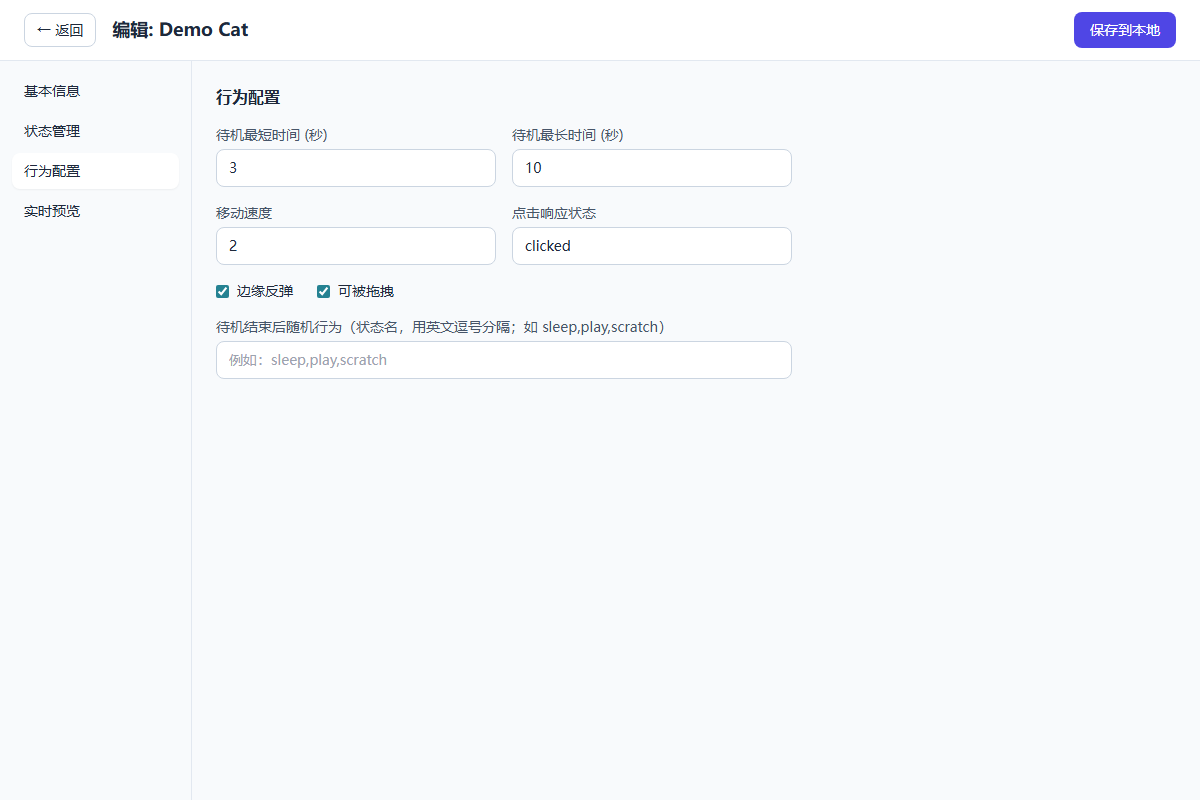
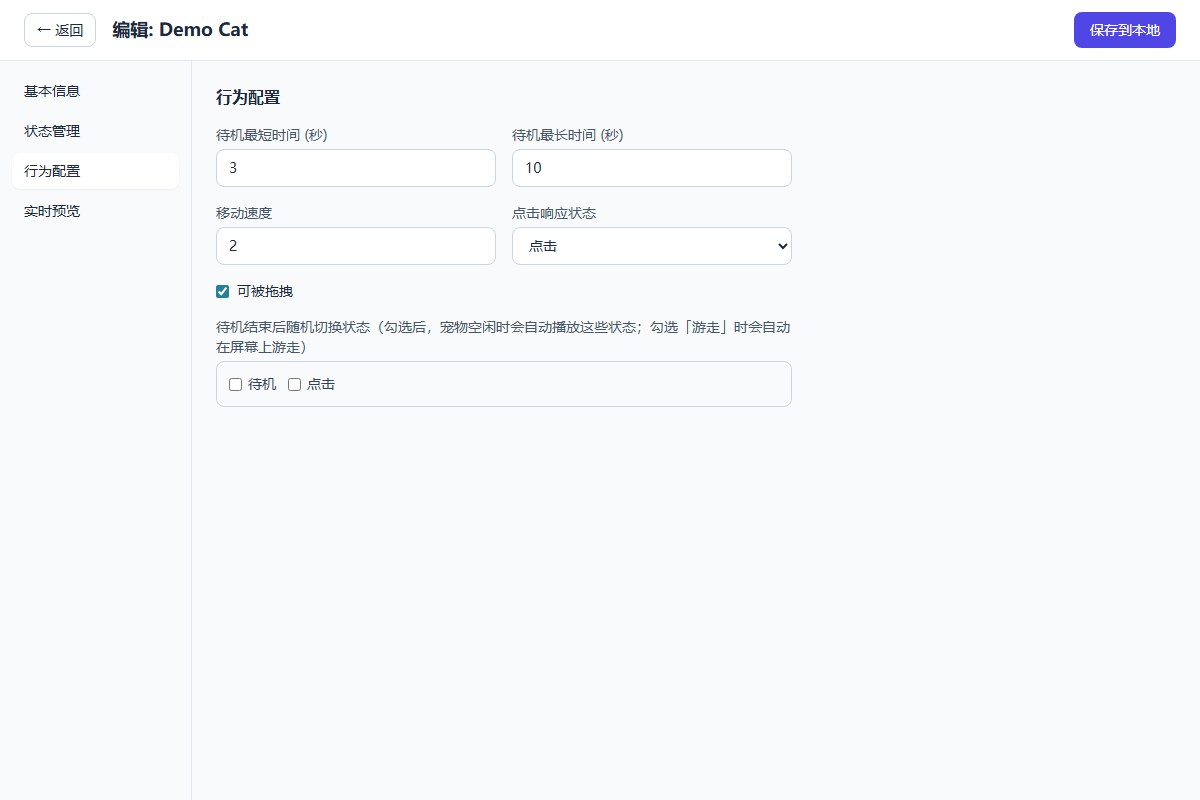
同步在线文档

Changed region(s): [[0.185, 0.3438, 0.6475, 0.5], [0.4317, 0.2812, 0.4625, 0.3125]]

diff --git a/src/components/Editor.tsx b/src/components/Editor.tsx
@@ -1,4 +1,4 @@
-import { useState, useCallback, useEffect, useRef } from 'react'
+import { useState, useCallback, useEffect, useRef, useMemo } from 'react'
 import { readFile, writeFile, mkdir } from '@tauri-apps/plugin-fs'
 import type { EditorData, EditorStateData, FrameFile, Manifest } from '../types'
 import { loadPet, savePetManifest, getBaseDataDir } from '../stores/petStore'
@@ -163,6 +163,8 @@ export default function Editor({ petName, onBack, onSaved }: EditorProps) {
   const [activeTab, setActiveTab] = useState<'basic' | 'states' | 'behavior' | 'preview'>('basic')
   const [previewState, setPreviewState] = useState('idle')
   const [previewFrame, setPreviewFrame] = useState(0)
+  const previewFrameRef = useRef(0)
+  const previewStateRef = useRef(previewState)
   const [autoRemoveBg, setAutoRemoveBg] = useState(true)
   const [showPrompts, setShowPrompts] = useState(false)
   const [copiedKey, setCopiedKey] = useState('')
@@ -301,20 +303,32 @@ export default function Editor({ petName, onBack, onSaved }: EditorProps) {
   }, [data.states])
 
   useEffect(() => {
+    previewStateRef.current = previewState
+  }, [previewState])
+
+  const previewFrameIds = useMemo(
+    () => data.states[previewState]?.frames.map((f) => f.id).join(',') ?? '',
+    [data.states, previewState]
+  )
+
+  useEffect(() => {
     const state = data.states[previewState]
     if (!state || state.frames.length === 0) return
-    let frame = 0
     let dir = 1
+    previewFrameRef.current = 0
     setPreviewFrame(0)
     let lastTime = performance.now()
-    const interval = 1000 / state.fps
     let rafId = 0
 
     function loop(now: number) {
+      const state = data.states[previewStateRef.current]
+      if (!state || state.frames.length === 0) return
+      const interval = 1000 / state.fps
       const elapsed = now - lastTime
       if (elapsed >= interval) {
         const steps = Math.floor(elapsed / interval)
         lastTime += steps * interval
+        let frame = previewFrameRef.current
         for (let s = 0; s < steps; s++) {
           if (state.loop && state.pingpong && state.frames.length > 1) {
             frame += dir
@@ -328,11 +342,14 @@ export default function Editor({ petName, onBack, onSaved }: EditorProps) {
           } else {
             frame = (frame + 1) % (state.loop ? state.frames.length : Math.max(1, state.frames.length))
             if (!state.loop && frame === state.frames.length - 1) {
+              previewFrameRef.current = frame
               setPreviewFrame(frame)
+              cancelAnimationFrame(rafId)
               return
             }
           }
         }
+        previewFrameRef.current = frame
         setPreviewFrame(frame)
       }
       rafId = requestAnimationFrame(loop)
@@ -340,7 +357,7 @@ export default function Editor({ petName, onBack, onSaved }: EditorProps) {
 
     rafId = requestAnimationFrame(loop)
     return () => cancelAnimationFrame(rafId)
-  }, [previewState, data.states])
+  }, [previewState, previewFrameIds])
 
   const updateState = useCallback((key: string, patch: Partial<EditorStateData>) => {
     setData((d) => ({

diff --git a/scripts/capture-screenshots.py b/scripts/capture-screenshots.py
@@ -92,7 +92,7 @@ def build_mock():
 
 
 def capture():
-    out_dir = ROOT / "docs" / "public" / "images" / "screenshots"
+    out_dir = ROOT / "docs" / "public" / "images"
     out_dir.mkdir(parents=True, exist_ok=True)
     base_url = "http://127.0.0.1:5173/index.html"
     mock = build_mock()
@@ -162,7 +162,8 @@ def capture():
         page.locator("button:has-text('+ 添加状态')").click()
         page.wait_for_timeout(300)
         page.screenshot(path=str(out_dir / "editor-add-state.png"))
-        page.keyboard.press("Escape")
+        # Close dialog by clicking the cancel button
+        page.locator("button:has-text('取消')").click()
         page.wait_for_timeout(300)
 
         # Behavior tab

diff --git a/docs/guide/create-pet.md b/docs/guide/create-pet.md
@@ -73,21 +73,25 @@
 
 ## 第四步：添加更多状态
 
-常见状态名：
+常见状态：
 
-| 状态名 | 作用 |
-|---|---|
-| `idle` | 待机，默认状态（必须有） |
-| `walk` | 走路或移动 |
-| `clicked` | 被点击时的反馈 |
-| `sleep` | 睡觉 |
-| `typing` | 敲击键盘时触发（按键监听） |
+| 界面显示 | 内部标识 | 作用 |
+|---|---|---|
+| 待机 | `idle` | 默认状态，必须有 |
+| 点击 | `clicked` | 被点击时的反馈 |
+| 游走 | `walk` | 走路或移动 |
+| 睡觉 | `sleep` | 睡觉 |
+| 打字 | `typing` | 敲击键盘时触发（按键监听） |
+| 玩耍 | `play` | 玩耍动作 |
+| 进食 | `eat` | 进食动作 |
+| 喝水 | `drink` | 喝水动作 |
+| 开心 | `happy` | 开心表情/动作 |
 
-点击 **+ 添加状态**，从预设下拉框选择常用状态（如 `walk`、`typing`、`sleep`），或在输入框中填写自定义名称，即可创建新状态。
+点击 **+ 添加状态**，在弹出的对话框中从下拉框选择预设状态（如「游走」「打字」「睡觉」），点击 **添加** 即可创建。所有状态在界面上显示中文，内部仍使用英文标识，方便分享和识别。
 
 ![添加状态](/images/editor-add-state.png)
 
-> `idle` 状态是必需的，不能删除。
+> `idle`（待机）状态是必需的，不能删除。状态名称只能从预设下拉框中选择，不支持自定义名称。
 
 ## 第五步：配置行为
 
@@ -97,12 +101,14 @@
 |---|---|
 | **待机最短时间 / 最长时间** | 两次随机行为之间的间隔秒数范围 |
 | **移动速度** | 随机游走时的像素速度 |
-| **点击响应状态** | 点击宠物时切换到哪个状态，默认 `clicked`，从已有状态下拉选择 |
+| **点击响应状态** | 点击宠物时切换到哪个状态，默认「点击」，从已有状态下拉选择（界面显示中文） |
 | **可被拖拽** | 是否允许用鼠标拖动宠物位置 |
-| **待机结束后随机切换状态** | 勾选想要的状态，待机结束后会随机从中挑选一个播放。勾选 `walk` 时宠物会播放 walk 动画；再选择「全屏走动」时窗口会真的移动，选择「原地走动」时只播放动画不移动位置 |
-| **游走范围** | 当上方勾选了 `walk` 时出现，选择 `全屏走动`（窗口在屏幕上移动）或 `原地走动`（只播放 walk 动画，位置不变） |
+| **待机结束后随机切换状态** | 勾选想要的状态，待机结束后会随机从中挑选一个播放。状态名称显示中文；勾选「游走」时，会额外出现「游走范围」选项 |
+| **游走范围** | 仅勾选「游走」时出现。选择「全屏走动」会真实移动宠物窗口；选择「原地走动」只播放游走动动画，窗口位置保持不变 |
 
 ![行为配置](/images/editor-behavior-config.png)
+
+> **注意**：修改行为配置后，需要返回管理器点击 **停止** 再重新 **运行** 宠物才会生效，当前运行的宠物不会实时更新。
 
 ## 第六步：实时预览
 

diff --git a/docs/guide/manage-pets.md b/docs/guide/manage-pets.md
@@ -16,11 +16,12 @@
 
 1. 在管理器右上角点击 **导入 .pet**。
 2. 在文件选择对话框中选择 `.pet` 文件。
-3. 导入成功后，宠物会出现在列表中。
+3. 如果列表中已有同名宠物，软件会弹出重命名对话框，让你为导入的宠物指定一个新名称。
+4. 导入成功后，宠物会出现在列表中。
 
 ![导入 .pet](/images/import-pet.svg)
 
-> 导入会自动解压到本地数据目录，不会覆盖已有同名宠物（如需更新，请先删除旧宠物）。
+> 导入不会覆盖已有同名宠物，遇到同名时需要先填入新名称再继续。
 
 ## 导出 .pet 文件
 
@@ -80,7 +81,7 @@ DeskPet/
 
 ![更改数据目录](/images/change-data-dir.svg)
 
-> 建议定期备份数据目录，尤其是自己做的宠物。升级软件前也建议先导出 `.pet` 或备份整个数据目录，避免更新安装覆盖旧数据。
+> **重要**：每次升级软件前，请先在管理器中选择宠物点击 **导出**，把 `.pet` 文件备份到安全位置；或手动备份整个数据目录。升级安装可能会覆盖旧数据，导出 `.pet` 是最稳妥的备份方式。
 
 ## 下一步
 

diff --git a/docs/guide/file-format.md b/docs/guide/file-format.md
@@ -98,10 +98,10 @@
 |---|---|---|
 | `idle_time` | number[] | 待机状态持续的最短、最长时间（秒） |
 | `walk_speed` | number | 随机游走速度 |
-| `edge_bounce` | boolean | 是否开启待机结束后随机游走（撞到屏幕边缘会掉头） |
+| `edge_bounce` | boolean | **已废弃，仅保留兼容**。旧版用此字段控制待机结束后随机游走；新版请通过 `random_states` 和 `walk_area` 控制 |
 | `drag_physics` | boolean | 是否允许鼠标拖拽 |
-| `random_states` | string[] | 待机结束后可能随机进入并播放的状态列表 |
-| `walk_area` | string | 随机游走范围：`screen`（全屏移动）或 `spot`（原地播放 walk 动画，不移动窗口） |
+| `random_states` | string[] | 待机结束后可能随机进入并播放的状态列表。包含 `walk` 时，宠物会播放 walk 动画 |
+| `walk_area` | string | 随机游走范围：`screen`（宠物窗口在屏幕上全屏移动）或 `spot`（只原地播放 walk 动画，不移动窗口） |
 
 ### interactions
 

diff --git a/docs/guide/run-pet.md b/docs/guide/run-pet.md
@@ -17,10 +17,12 @@
 
 | 操作 | 效果 |
 |---|---|
-| 左键点击 | 触发配置的「点击响应状态」（默认 `clicked`，可在编辑器行为配置中选择） |
+| 左键点击 | 触发配置的「点击响应状态」（默认「点击」/ `clicked`，可在编辑器行为配置中选择） |
 | 按住拖拽 | 移动宠物位置 |
 | 右键点击 | 打开宠物菜单：水平翻转、恢复自动朝向、关闭宠物 |
-| 按键（Windows） | 空格/回车/方向键/WASD/数字键 1-5 会触发 `typing` 状态或点击反馈 |
+| 按键（Windows） | 空格/回车/方向键/WASD/数字键 1-5 会触发「打字」/ `typing` 状态或点击反馈 |
+
+> **配置生效时机**：在编辑器中修改宠物配置后，需要返回管理器点击 **停止** 再重新 **运行**，当前运行的宠物不会实时更新。
 
 ![宠物右键菜单](/images/viewer-context-menu.svg)
 

diff --git a/docs/guide/faq.md b/docs/guide/faq.md
@@ -46,16 +46,17 @@ chmod +x "DeskPet Engine_0.1.0_amd64.AppImage"
 
 请检查：
 
-1. 是否给 `clicked` 状态上传了帧图。
-2. 行为配置中的 **点击响应状态** 是否选择正确（默认 `clicked`）。
+1. 是否给「点击」/ `clicked` 状态上传了帧图。
+2. 行为配置中的 **点击响应状态** 是否选择正确（默认「点击」/ `clicked`，界面显示中文）。
 3. 设置中是否开启了 **鼠标穿透**（开启后无法点击）。
+4. 修改配置后是否重新 **停止** 再 **运行** 了宠物（运行中的宠物不会实时更新配置）。
 
 ### Q: 按键不会触发动画？
 
 请检查：
 
 1. 设置中是否开启 **按键触发动画**。
-2. 是否有 `typing` 状态且帧图不为空。
+2. 是否有「打字」/ `typing` 状态且帧图不为空。
 3. 该功能当前仅在 Windows 平台有效。
 
 ## 运行与管理

diff --git a/docs/guide/quick-start.md b/docs/guide/quick-start.md
@@ -24,9 +24,11 @@
 
 在宠物窗口上：
 
-- **鼠标点击**：触发点击反馈动作。
+- **鼠标左键点击**：触发配置的「点击响应状态」（默认「点击」）。
 - **按住拖拽**：把宠物移动到屏幕任意位置。
 - **右键菜单**：可「水平翻转」或「关闭宠物」。
+
+> 在编辑器里修改配置后，需要回到管理器点击 **停止** 再重新 **运行** 才会生效。
 
 ![宠物右键菜单](/images/viewer-context-menu.svg)
 
